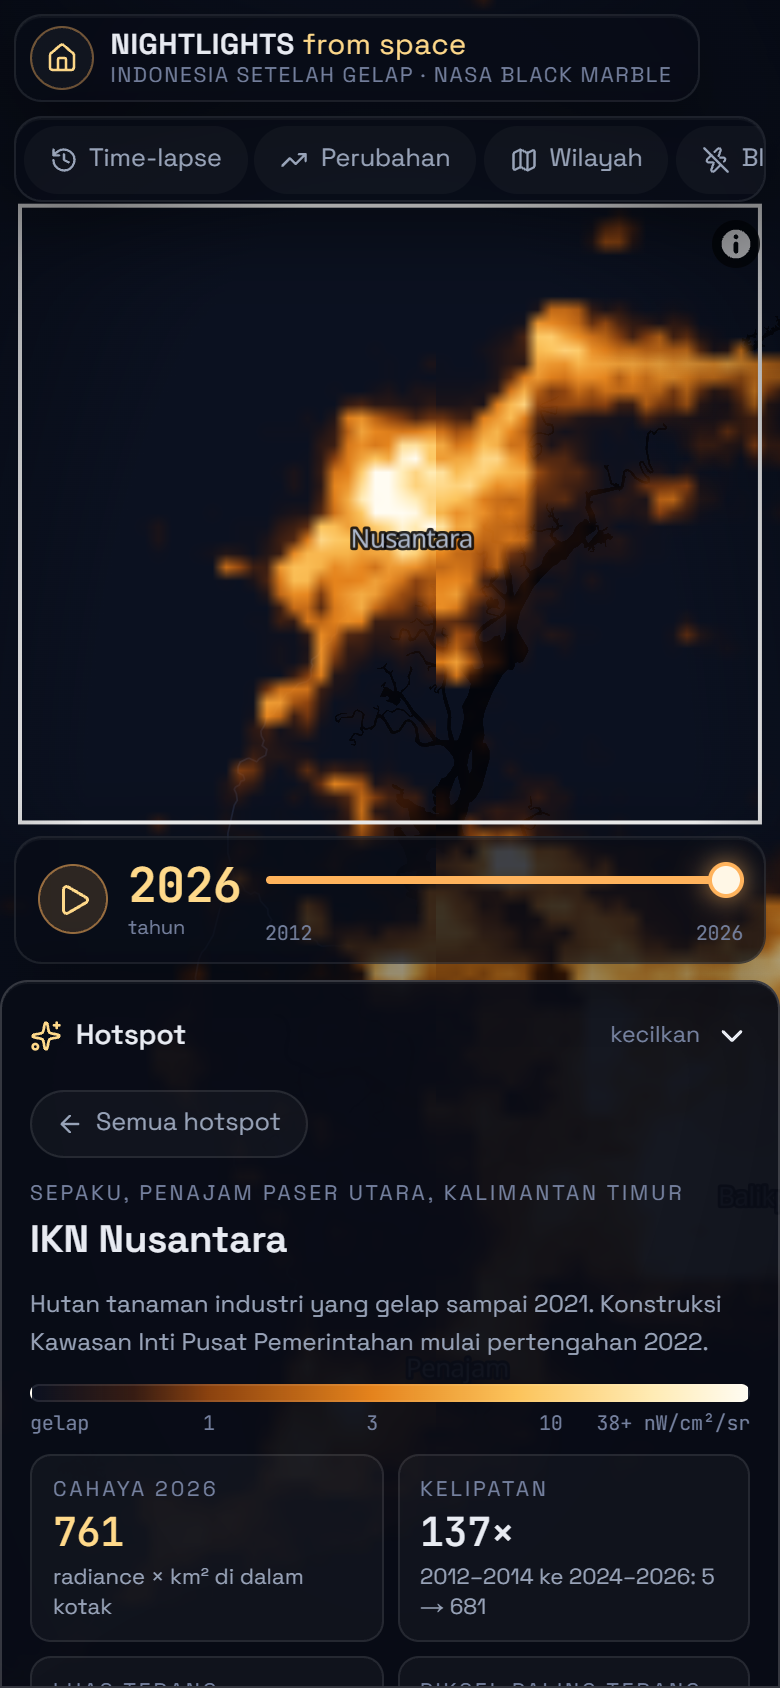
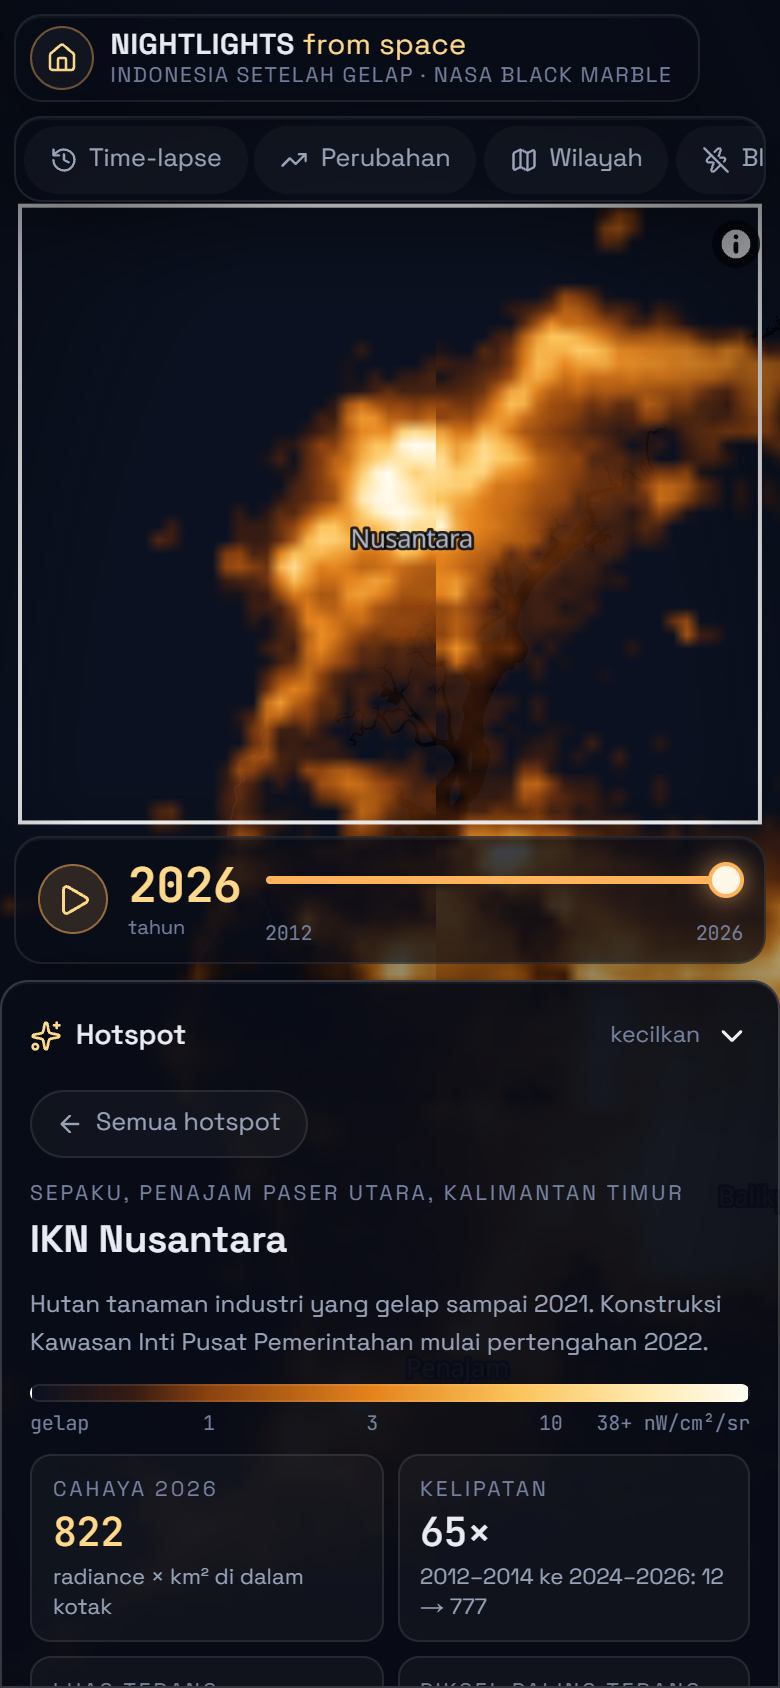
Rilis v1.1.0: update README, changelog, dan tangkapan layar

diff --git a/README.md b/README.md
@@ -16,14 +16,14 @@
 ![Time-lapse cahaya malam Indonesia 2012 sampai 2026](docs/demo.gif)
 
 <p align="center">
-  <img src="docs/screenshots/wilayah.png" width="49%" alt="NTT: cahaya naik enam kali lipat, rumah tangga berlistrik PLN dari 50% ke 93%" />
+  <img src="docs/screenshots/wilayah.png" width="49%" alt="NTT: cahaya naik lima kali lipat, rumah tangga berlistrik PLN dari 50% ke 93%" />
   <img src="docs/screenshots/blackout.png" width="49%" alt="Kupang setelah siklon Seroja: cahaya yang hilang ditandai merah muda" />
 </p>
 
 ## 🇬🇧 In English
 
 **An interactive night-lights atlas of Indonesia, 2012–2026, built from NASA Black Marble (VIIRS Day/Night Band).**
-Fifteen annual composites are pre-rendered as transparent raster tiles and cross-faded in MapLibre, so the time-lapse
+Fifteen official annual composites (VNP46A4, full unclipped radiance) are pre-rendered as transparent raster tiles and cross-faded in MapLibre, so the time-lapse
 stays smooth on a phone. On top of the imagery sits an analysis layer computed from the same pixels:
 
 - **Time-lapse** with a year slider and play button, plus a **live daily mode**: pick any date since 19 January 2012 and the
@@ -38,8 +38,8 @@ stays smooth on a phone. On top of the imagery sits an analysis layer computed f
 - **Hotspots**: places that switched on, such as the new capital IKN, nickel smelters in Morowali and Weda Bay, and the
   lamp-lit dragon fruit farms of Banyuwangi.
 
-No account or API key anywhere in the pipeline. Next.js 16, TypeScript, Tailwind 4, MapLibre GL; data prepared with
-Python (NumPy + Pillow). Tested at 360, 390, 412 and 1440 px. *The rest of this README is in Indonesian.*
+The app itself needs no key; rebuilding the annual data needs only a free NASA Earthdata token. Next.js 16, TypeScript, Tailwind 4, MapLibre GL; data prepared with
+Python (NumPy, h5py, Pillow). Tested at 360, 390, 412 and 1440 px. *The rest of this README is in Indonesian.*
 
 ## Yang kelihatan dari data
 
@@ -47,18 +47,18 @@ Angka di bawah dihitung dari komposit di repo ini (lihat [metodologi](#metodolog
 
 | | 2012 | 2026 |
 |---|---|---|
-| Total cahaya nasional (indeks) | 100 | **280** |
-| Wilayah terang | 52.685 km² | **134.290 km²** |
-| Kabupaten/kota tanpa satu piksel terang pun | 37 | **10** (semuanya di pegunungan Papua) |
+| Total cahaya nasional (indeks) | 100 | **255** |
+| Wilayah terang | 71.782 km² | **173.586 km²** |
+| Kabupaten/kota tanpa satu piksel terang pun | 31 | **6** (semuanya di pedalaman Papua) |
 | Rumah tangga berpenerangan listrik PLN (BPS) | 92,2% | 98,5% (2025) |
 
-- **Sambungan listrik sudah jenuh, cahaya belum.** Angka PLN naik enam poin, cahayanya hampir tiga kali lipat. Di 21
-  provinsi yang sudah di atas 98% tersambung pun, cahaya per kapita masih terpaut sampai 4,7 kali. Korelasi peringkat
-  antara persen PLN dan cahaya per kapita tinggal 0,28.
-- **Timur mengejar.** Maluku Utara naik 822% (nikel), NTT 425%, Sulawesi Tenggara 423%, Sulawesi Tengah 375%.
-  Jakarta cuma 19%, sebagian karena intinya sudah mentok di batas ukur.
-- **Cahaya mengikuti ekonomi.** Total cahaya dan PDRB 38 provinsi berkorelasi 0,92 (log-log), dengan elastisitas 0,77.
-- **IKN** naik 137 kali sejak konstruksi mulai 2022. **IMIP Morowali** 56 kali. Kebun **buah naga Banyuwangi**, yang
+- **Sambungan listrik sudah jenuh, cahaya belum.** Angka PLN naik enam poin, cahayanya dua setengah kali lipat. Di 21
+  provinsi yang sudah di atas 98% tersambung pun, cahaya per kapita masih terpaut sampai 4,9 kali. Korelasi peringkat
+  antara persen PLN dan cahaya per kapita tinggal 0,20.
+- **Timur mengejar.** Maluku Utara naik 1.038% (nikel), Sulawesi Tengah 520%, Sulawesi Tenggara 488%, NTT 403%.
+  Jakarta, yang sudah terang dari awal, naik 30%.
+- **Cahaya mengikuti ekonomi.** Total cahaya dan PDRB 38 provinsi berkorelasi 0,93 (log-log), dengan elastisitas 0,79.
+- **IKN** naik 65 kali sejak konstruksi mulai 2022. **IMIP Morowali** 53 kali, **IWIP Weda Bay** ratusan kali. Kebun **buah naga Banyuwangi**, yang
   dilampui semalaman supaya berbunga di luar musim, sekarang lebih terang dari kotanya.
 - **Seroja, April 2021:** begitu awan badai lewat, Kupang tinggal 21% terangnya, dan baru kembali ke 90% dua minggu
   kemudian. **Cianjur 2022** nyaris tidak meninggalkan jejak: musim hujan, awan menutup hampir tiap malam.
@@ -85,34 +85,38 @@ dibagikan. Contoh: [`#m=hotspot&s=ikn`](https://nightlights-from-space.vercel.ap
 
 ## Metodologi
 
-1. **Citra.** [NASA Black Marble](https://blackmarble.gsfc.nasa.gov/) VNP46A2: radiance malam harian dari VIIRS
-   Day/Night Band yang sudah dikoreksi cahaya bulan, atmosfer, dan sudut pandang, lalu diisi-celah saat berawan. Diambil
-   dari [NASA GIBS](https://www.earthdata.nasa.gov/engage/open-data-services-software/earthdata-developer-portal/gibs-api)
-   sebagai ubin PNG berpalet di zoom 8 (sekitar 600 m per piksel). Tiap indeks palet dikembalikan ke nW/cm²/sr lewat
-   colormap resminya.
-2. **Komposit tahunan.** Dua malam per bulan (tanggal 6 dan 21), 24 sampel per tahun, lalu median per piksel. Median
-   membuang cahaya sesaat: kebakaran lahan, kapal, petir.
-3. **Koreksi latar.** Rata-rata radiance daratan yang selalu gelap (89% daratan) mestinya nol, tapi bergeser 0,06–0,21
-   dari tahun ke tahun. Angka itu dikurangkan per tahun supaya piksel redup tidak lompat ambang gara-gara derau.
+1. **Citra tahunan.** [NASA Black Marble](https://blackmarble.gsfc.nasa.gov/) VNP46A4, komposit tahunan resmi dari VIIRS
+   Day/Night Band yang sudah dikoreksi cahaya bulan, atmosfer, dan sudut pandang. Berkasnya HDF5 per ubin 10° × 10°
+   dengan piksel 15 detik busur (sekitar 460 m) dan radiance penuh dalam nW/cm²/sr, diunduh dari
+   [NASA LAADS DAAC](https://ladsweb.modaps.eosdis.nasa.gov/). 18 ubin dijahit, lalu tiap piksel dirata-rata ke grid Web
+   Mercator zoom 8 (sekitar 600 m). Tahun berjalan belum punya komposit tahunan, jadi dipakai median komposit bulanan
+   VNP46A3 yang sudah terbit.
+2. **Citra harian.** Mode harian dan kejadian padam memakai VNP46A2 lewat
+   [NASA GIBS](https://www.earthdata.nasa.gov/engage/open-data-services-software/earthdata-developer-portal/gibs-api):
+   ubin PNG berpalet yang tiap indeksnya dikembalikan ke radiance lewat colormap resminya.
+3. **Koreksi latar.** Rata-rata radiance daratan yang selalu gelap dikurangkan per tahun. Di produk tahunan angkanya
+   nyaris nol (paling besar 0,04 di 2023), tapi langkahnya dipertahankan supaya piksel redup tidak lompat ambang.
 4. **Statistik.** Piksel disebut terang kalau radiansnya ≥ 1 nW/cm²/sr. *Total cahaya* = jumlah radiance × luas piksel
    terang. Batas kabupaten/kota dilebarkan sekitar 2 km ke laut supaya cahaya kota pesisir tidak terbuang; provinsi =
    jumlah kabupatennya. Enam provinsi di Papua dihitung dengan batas sekarang untuk semua tahun.
 5. **Kejadian.** Indeks harian = total cahaya piksel yang biasanya terang dibanding median 30 malam sebelumnya, diringkas
    dengan median geser 3 malam.
 6. **Ubin.** Komposit diwarnai dengan satu palet (`data/palet.json`, dipakai Python dan TypeScript sekaligus), dipotong
-   jadi PNG berpalet transparan zoom 2–8. Sekitar 3,6 MB per tahun.
+   jadi PNG berpalet transparan zoom 2–8. Sekitar 4 MB per tahun.
 
 ## Batasan
 
-- GIBS memotong radiance di **38,2 nW/cm²/sr**. Inti Jakarta dan Surabaya sudah mentok sejak 2012, jadi pertumbuhan
-  cahayanya terhitung terlalu kecil. Luas terang tidak terpengaruh.
+- Komposit tahunan adalah **rata-rata semua malam cerah**. Kebakaran lahan besar atau suar gas yang menyala
+  berbulan-bulan ikut terhitung sebagai cahaya di tahun itu.
 - **Cahaya bukan listrik rumah tangga.** Lampu jalan, pabrik, pelabuhan, tambang, suar gas, dan kebun buah naga ikut
   terhitung; desa yang baru tersambung dengan beberapa lampu redup bisa tetap di bawah ambang.
 - Lampu jalan **LED putih** kurang terlihat oleh sensor VIIRS yang tidak peka biru. Sebagian "meredup" berasal dari sini.
 - Satelit lewat sekitar **01.30** dan tidak menembus awan. Padam singkat (blackout Jawa 2019) atau padam di musim hujan
-  (Cianjur 2022) sering lolos, dan produk isi-celah menampilkan pengamatan cerah terakhir.
+  (Cianjur 2022) sering lolos, dan produk harian isi-celah menampilkan pengamatan cerah terakhir.
+- Citra harian dari GIBS terpotong di **38,2 nW/cm²/sr**. Ini hanya memengaruhi mode harian dan indeks kejadian di inti
+  kota besar; statistik tahunan memakai radiance penuh.
 - Persen PLN dari BPS adalah **survei rumah tangga** (Susenas), bukan rasio elektrifikasi versi Kementerian ESDM.
-- 2012 mulai 19 Januari; tahun berjalan baru sampai tanggal sampel terakhir.
+- Tahun berjalan baru sampai komposit bulanan terakhir yang sudah terbit.
 
 ## Sumber data
 
@@ -120,6 +124,7 @@ Rinciannya, termasuk tanggal unduh dan lisensi, ada di [`data/SUMBER_DATA.md`](d
 
 | Data | Sumber |
 |---|---|
+| Cahaya malam tahunan dan bulanan | NASA Black Marble VNP46A4 dan VNP46A3 dari NASA LAADS DAAC |
 | Cahaya malam harian | NASA Black Marble VNP46A2 lewat NASA GIBS |
 | Batas 514 kabupaten/kota | BPS lewat OCHA/HDX dan geoBoundaries (CC BY 3.0 IGO) |
 | Rumah tangga berlistrik PLN 2012–2025 | BPS, Susenas |
@@ -130,7 +135,7 @@ Rinciannya, termasuk tanggal unduh dan lisensi, ada di [`data/SUMBER_DATA.md`](d
 ## Struktur
 
 ```
-scripts/     pipeline Python: unduh GIBS, komposit, statistik, ubin, kejadian
+scripts/     pipeline Python: unduh LAADS dan GIBS, komposit, statistik, ubin, kejadian
 data/        CSV hasil olahan + konfigurasi kejadian, hotspot, dan palet
 public/      ubin PNG per tahun, citra kejadian, JSON ringkas untuk aplikasi
 src/lib/     logika murni: hitungan, metrik, palet, URL, protokol GIBS, kendali peta
@@ -150,29 +155,32 @@ npm run typecheck && npm run lint && npm test
 npm run build && npm run test:e2e
 ```
 
-Build memakai `next build --webpack`. Tidak ada variabel lingkungan yang perlu diisi.
+Build memakai `next build --webpack`. Aplikasinya tidak butuh variabel lingkungan apa pun.
 
 ## Bangun ulang datanya
 
-Semua data di `public/` sudah ikut di repo, jadi langkah ini hanya untuk memperbarui. Butuh Python 3.12+ dan sekitar
-1,5 GB ruang untuk cache ubin mentah.
+Semua data di `public/` sudah ikut di repo, jadi langkah ini hanya untuk memperbarui. Butuh Python 3.12+, sekitar
+30 GB ruang untuk cache, dan token [NASA Earthdata](https://urs.earthdata.nasa.gov/) (gratis; Profile > Generate Token)
+yang disimpan sebagai `EARTHDATA_TOKEN` di `.env.local`. Token hanya dipakai untuk mengunduh berkas tahunan dan bulanan;
+citra harian dari GIBS tidak butuh apa-apa.
 
 ```bash
 pip install -r scripts/requirements.txt
-python scripts/wilayah.py          # batas kabupaten + raster label
+python scripts/wilayah.py                                 # batas kabupaten + raster label
 npx mapshaper cache/olah/kab_mentah.geojson -simplify 12% keep-shapes -clean -o precision=0.001 public/data/kabupaten.geojson -dissolve kode_prov copy-fields=provinsi -rename-fields kode=kode_prov,nama=provinsi -o precision=0.001 public/data/provinsi.geojson
-python scripts/pembanding.py       # PLN, penduduk, PDRB
-python scripts/ambil_tahunan.py    # unduh ubin GIBS dan bikin komposit (sekitar 40 menit untuk 15 tahun)
-python scripts/latar.py            # tingkat latar per tahun
-python scripts/statistik.py        # cahaya per kabupaten, provinsi, nasional
-python scripts/ubin.py             # ubin PNG per tahun + peta selisih
-python scripts/kejadian.py         # deret harian dan citra kejadian
-python scripts/bangun_data.py      # JSON untuk aplikasi
+python scripts/pembanding.py                              # PLN, penduduk, PDRB
+python scripts/ambil_laads.py --dari 2012 --sampai 2025 --bulanan 2026   # unduh HDF5 resmi, sekitar 28 GB
+python scripts/komposit_laads.py --dari 2012 --sampai 2025 --bulanan 2026
+python scripts/latar.py                                   # tingkat latar per tahun
+python scripts/statistik.py                               # cahaya per kabupaten, provinsi, nasional
+python scripts/ubin.py                                    # ubin PNG per tahun + peta selisih
+python scripts/kejadian.py                                # deret harian dan citra kejadian (GIBS)
+python scripts/bangun_data.py                             # JSON untuk aplikasi
 ```
 
-Untuk menambah tahun berjalan cukup `python scripts/ambil_tahunan.py --dari 2026 --ulang`, lalu jalankan lagi empat
-skrip terakhir. Menambah kejadian atau hotspot baru = menambah satu entri di `data/kejadian.json` atau
-`data/sorotan.json`.
+Tanpa token, `python scripts/ambil_tahunan.py` membuat komposit tahunan dari ubin harian GIBS (median dua malam per
+bulan). Hasilnya mirip, tapi radiance-nya terpotong di 38,2. Menambah kejadian atau hotspot baru = menambah satu entri
+di `data/kejadian.json` atau `data/sorotan.json`.
 
 ## Lisensi
 

diff --git a/CHANGELOG.md b/CHANGELOG.md
@@ -4,6 +4,19 @@ Semua perubahan penting di Nightlights from Space dicatat di sini. Formatnya men
 [Keep a Changelog](https://keepachangelog.com/en/1.1.0/), versinya [Semantic Versioning](https://semver.org/).
 Tiap versi baru di `package.json` otomatis jadi tag + GitHub Release lewat workflow `rilis.yml`.
 
+## [1.1.0] - 2026-11-15
+
+### Diubah
+- **Statistik dan time-lapse pindah ke komposit resmi NASA.** Sumbernya sekarang VNP46A4 (tahunan, 2012–2025) dan
+  VNP46A3 (bulanan, untuk 2026) dari NASA LAADS, dengan radiance penuh. Sebelumnya komposit dibuat sendiri dari ubin
+  harian GIBS yang terpotong di 38,2 nW/cm²/sr, sehingga pertumbuhan inti kota besar terhitung terlalu kecil
+  (Jakarta 19%, sekarang 30%). Semua angka di aplikasi, README, dan CSV dihitung ulang.
+- Mode harian dan kejadian padam tetap memakai citra harian GIBS.
+
+### Ditambah
+- `scripts/ambil_laads.py` dan `scripts/komposit_laads.py` untuk mengunduh berkas HDF5 dan memetakannya ke grid peta.
+  Butuh token NASA Earthdata di `.env.local`; jalur GIBS tanpa token (`ambil_tahunan.py`) tetap ada sebagai cadangan.
+
 ## [1.0.0] - 2026-11-15
 
 Rilis pertama.
